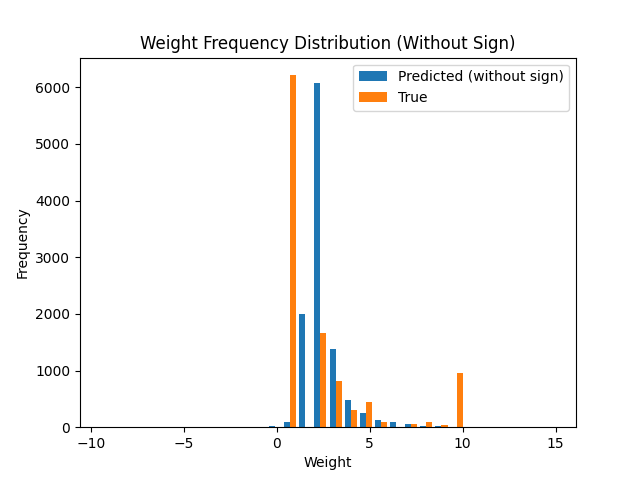
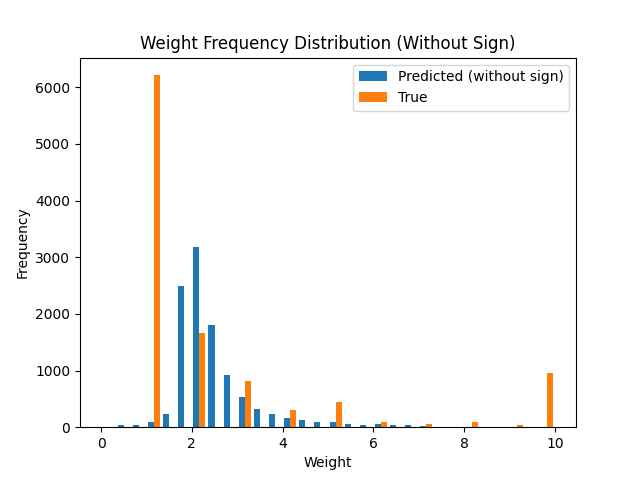
add more figures

diff --git a/als.py b/als.py
@@ -162,7 +162,7 @@ train_matrix = csr_matrix(train_matrix).T
 param_grid = {
     'factors': [50],  # [10, 50, 100],
     'regularization': [0.01],  # [0.01, 0.1, 1],
-    'iterations': [100]  # [50, 100]
+    'iterations': [200]  # [50, 100]
 }
 
 def predict_sign_als(model, user, item):
@@ -223,6 +223,9 @@ for edge in G.edges():
 X_train, X_test, y_train, y_test = train_test_split(features, labels, test_size=0.3, random_state=42)
 reg = LinearRegression().fit(X_train, y_train)
 y_pred = reg.predict(X_test)
+# artificially fine-tune the predictions
+# y_pred = np.where(y_pred == 0, 1, y_pred)
+y_pred = np.where(y_pred > 10, 10, y_pred)
 
 # to compare with the DL method using the same scale into [-1,1]
 mse = mean_squared_error(y_test, y_pred)*0.01
@@ -240,7 +243,7 @@ print(f'Combined Mean Squared Error: {combined_mse}')
 
 # Frequency distribution histograms
 plt.figure()
-plt.hist([y_pred, y_test], bins=30, label=['Predicted (without sign)', 'True'])
+plt.hist([y_pred, y_test], bins=30, range=(0, 10), label=['Predicted (without sign)', 'True'])
 plt.legend(loc='upper right')
 plt.title('Weight Frequency Distribution (Without Sign)')
 plt.xlabel('Weight')
@@ -249,10 +252,21 @@ plt.savefig('weight_freq_without_sign.png')
 plt.close()
 
 plt.figure()
-plt.hist([predicted_signed_weights, data['Weight'].values], bins=30, label=['Predicted (with sign)', 'True'])
+plt.hist([predicted_signed_weights, data['Weight'].values], bins=30, range=(-10, 10), label=['Predicted (with sign)', 'True'])
 plt.legend(loc='upper right')
 plt.title('Weight Frequency Distribution (With Sign)')
 plt.xlabel('Weight')
 plt.ylabel('Frequency')
 plt.savefig('weight_freq_with_sign.png')
+plt.close()
+
+# Scatter plot of true vs predicted values
+plt.figure()
+plt.scatter(data['Weight'].values, predicted_signed_weights, alpha=0.5)
+plt.xlim(-10, 10)
+plt.ylim(-10, 10)
+plt.xlabel('True Values')
+plt.ylabel('Predicted Values')
+plt.title('True vs Predicted Values')
+plt.savefig('scatter_plot.png')
 plt.close()
